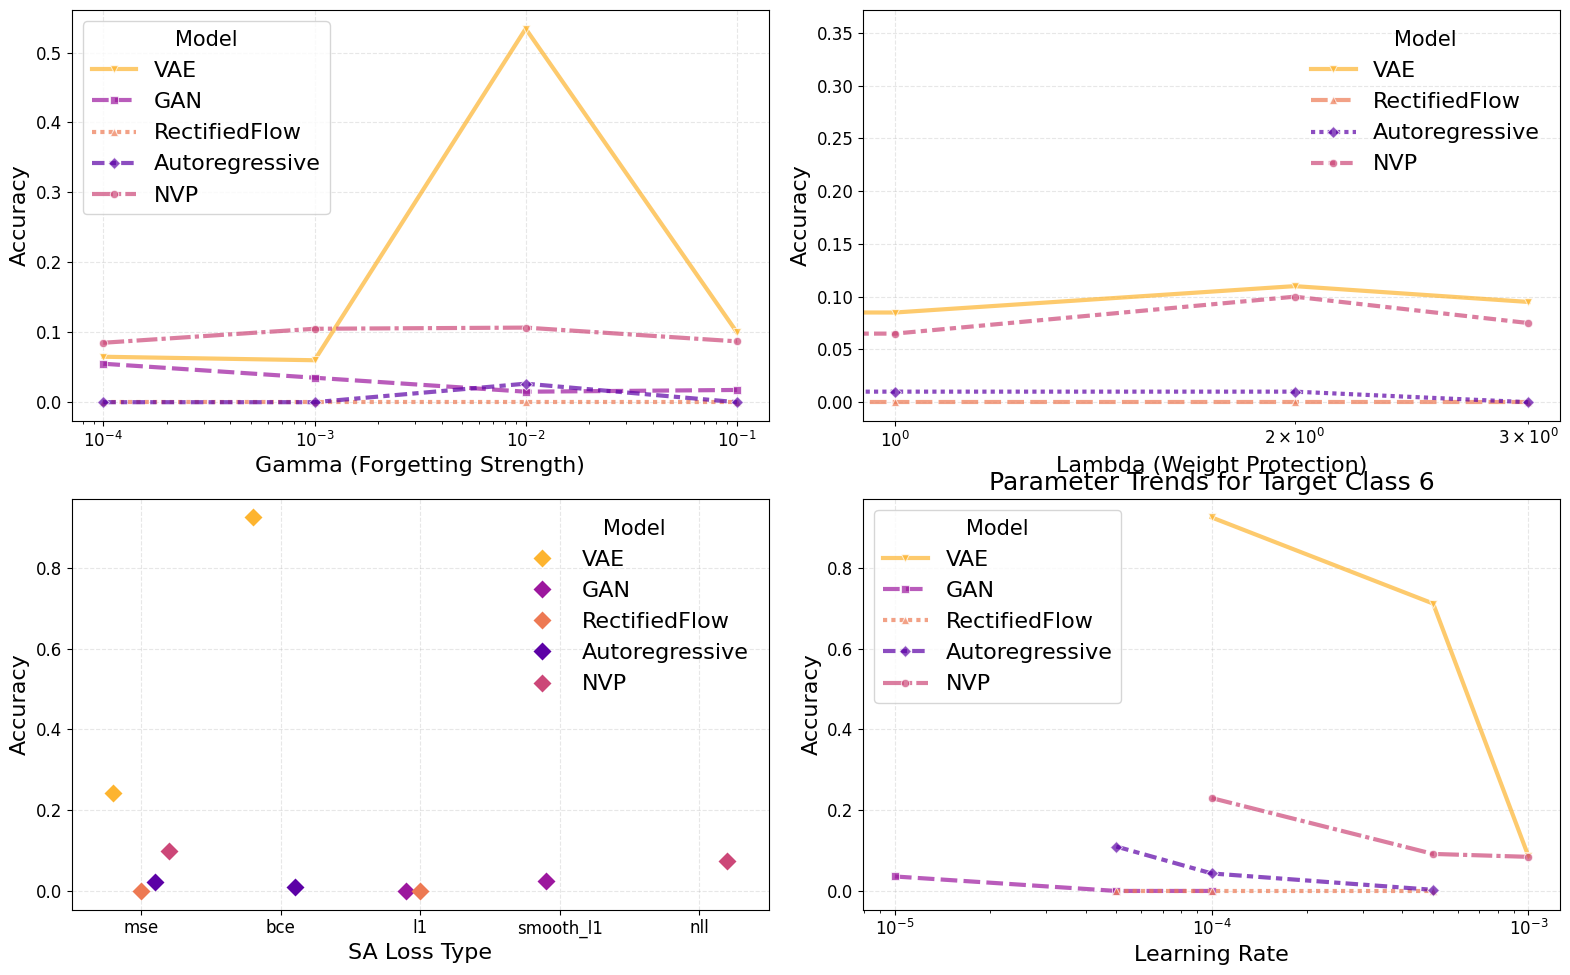
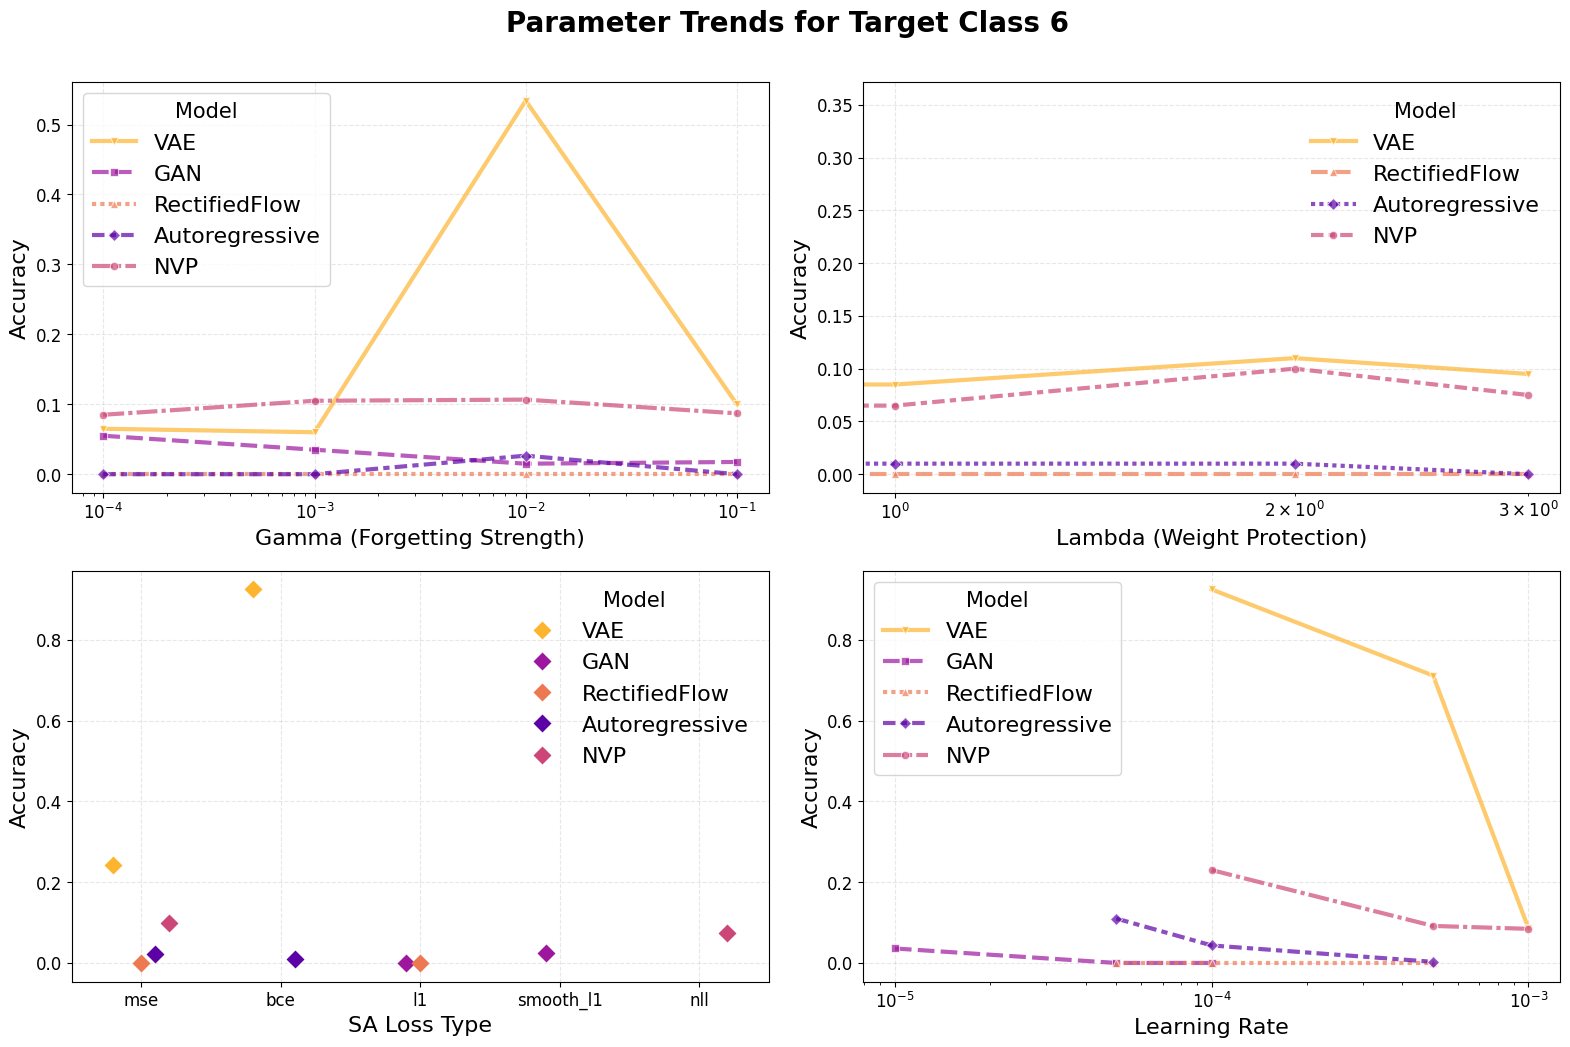
plot updates, GAN fix hopefully?

diff --git a/evaluation/paper_plots.py b/evaluation/paper_plots.py
@@ -86,7 +86,7 @@ def parameter_trend_plot(results_csv=RESULTS_CSV, target_class=TARGET_CLASS):
 
 
     plt.tight_layout()
-    plt.title(f"Parameter Trends for Target Class {target_class}")
+    plt.suptitle(f"Parameter Trends for Target Class {target_class}", fontweight='bold', y=1.05)
     plt.savefig(f'evaluation_data/plots/trends_{target_class}_grid.png', bbox_inches='tight')
 
 def combined_parameter_trend_plot():
@@ -209,6 +209,84 @@ def heatmap_plot(csv_path=FINAL_BEST_CSV, target_class=TARGET_CLASS):
     plt.tight_layout()
     plt.savefig(f'evaluation_data/plots/heatmap_{target_class}.png', dpi=300)
     
+def plot_optimization_traps():
+    edge_cases = [
+        {"model": "VAE", "target": 4},
+        {"model": "RectifiedFlow", "target": 8},
+        {"model": "RectifiedFlow", "target": 0} # as guideline
+    ]
+    
+    comparison_data = []
+
+    for case in edge_cases:
+        model = case["model"]
+        c = case["target"]
+        
+        raw_csv = f'evaluation_data/results_target_{c}.csv'
+        final_csv = f'evaluation_data/final_results_target_{c}.csv'
+        
+        if not (os.path.exists(raw_csv) and os.path.exists(final_csv)):
+            continue
+            
+        raw_df = pd.read_csv(raw_csv)
+        final_df = pd.read_csv(final_csv)
+        
+        target_col = f'digit_{c}_after'
+        
+        m_final = final_df[final_df['Model'] == model]
+        if m_final.empty: continue
+        
+        chosen_acc = m_final.iloc[0]['Final_Target_Acc']
+        chosen_drop = m_final.iloc[0]['Final_Retained_Drop']
+        
+        m_raw = raw_df[raw_df['Model'] == model]
+        if m_raw.empty: continue
+        
+        min_idx = m_raw[target_col].idxmin()
+        abs_best_acc = m_raw.loc[min_idx, target_col]
+        abs_best_drop = m_raw.loc[min_idx, 'Avg Retained Drop']
+        
+        label = f"{model}\n(Target {c})"
+        
+        comparison_data.append({
+            'Case': label,
+            'Selection': 'Scoring Metric Choice',
+            'Target Accuracy': chosen_acc,
+            'Retained Drop': chosen_drop
+        })
+        comparison_data.append({
+            'Case': label,
+            'Selection': 'Lowest Target Acc',
+            'Target Accuracy': abs_best_acc,
+            'Retained Drop': abs_best_drop
+        })
+
+    comp_df = pd.DataFrame(comparison_data)
+    if comp_df.empty: return
+
+    fig, axes = plt.subplots(1, 2, figsize=(14, 6))
+    
+    sns.barplot(data=comp_df, x='Case', y='Target Accuracy', hue='Selection', 
+                ax=axes[0], palette=["#7a3a9f", "#d67327"], errorbar=None)
+    axes[0].set_title('Target Accuracy')
+    axes[0].set_ylabel('Target Class Accuracy')
+    axes[0].axhline(0.05, ls='--', color='black', alpha=0.5)
+    axes[0].get_legend().remove()
+    
+    sns.barplot(data=comp_df, x='Case', y='Retained Drop', hue='Selection', 
+                ax=axes[1], palette=['#7a3a9f', '#d67327'], errorbar=None)
+    axes[1].set_title('Catastrophic Forgetting')
+    axes[1].set_ylabel('Average Accuracy Drop on Retained')
+    axes[1].invert_yaxis()
+    
+    plt.suptitle('Best Parameter Metric Evaluation', fontweight='bold', y=1.05)
+    plt.tight_layout()
+    
+    save_path = 'evaluation_data/plots/optimization_trap_cases.png'
+    os.makedirs('evaluation_data/plots', exist_ok=True)
+    plt.savefig(save_path, bbox_inches='tight', dpi=300)
+    plt.close()
+
 def get_best_runs_across_all_targets():
     all_best_runs = []
     
@@ -253,11 +331,11 @@ def stability_boxplot():
         data=master_df, 
         x='Model', 
         y='Target_Accuracy_After', 
-        color=".25", 
+        color=".5", 
         size=6, 
         alpha=0.7,
     )
-    datapoints_handle = mlines.Line2D([], [], color='.25', marker='o', linestyle='None',markersize=6, alpha=0.7, label='Class Accuracy')
+    datapoints_handle = mlines.Line2D([], [], color='.5', marker='o', linestyle='None',markersize=6, alpha=0.7, label='Class Accuracy')
     threshold_line = plt.axhline(0.05, ls='--', color='green', alpha=0.5, label='Forgetting Threshold')    
 
     plt.legend(handles=[datapoints_handle, threshold_line], 
@@ -265,9 +343,8 @@ def stability_boxplot():
             frameon=True,
             fontsize=12)
 
-    plt.title('Unlearning Stability Across All MNIST Classes\n(Lower Accuracy = Better Forgetting)', pad=15)
+    plt.title('Unlearning Stability Across All MNIST Classes', pad=15)
     plt.ylabel('Target Class Accuracy After SA')
-    plt.yscale("log")
     plt.grid(axis='y', linestyle='--', alpha=0.3)
     plt.tight_layout()
     plt.savefig('evaluation_data/plots/stability_boxplot_master.png', dpi=300)
@@ -376,9 +453,10 @@ def plot_all(target_classes=range(10)):
 
 if __name__ == "__main__":
     #plot_all(range(10))
-    #stability_boxplot()
+    stability_boxplot()
     for c in range(10):
         res = f'evaluation_data/results_target_{c}.csv'
         parameter_trend_plot(res, c)
-    # master_target_accuracy_heatmap()
+    master_target_accuracy_heatmap()
     combined_parameter_trend_plot()
+    plot_optimization_traps()

diff --git a/models/generative_adversarial_network/generative_adversarial_network.py b/models/generative_adversarial_network/generative_adversarial_network.py
@@ -65,11 +65,10 @@ class ConditionalGAN(nn.Module):
         self.adversarial_loss = torch.nn.BCEWithLogitsLoss()
 
     def generate(self, y):
-        """Generates images scaled to [-1, 1] for Oracle evaluation"""
+        """Generates images scaled to [0, 1]"""
         device = y.device
         z = torch.randn(y.size(0), self.latent_dim, device=device)
-        generated_imgs = self.generator(z, y)
-        return (generated_imgs * 2.0) - 1.0
+        return self.generator(z, y)
 
     def train_step(self, x, y):
         device = x.device

diff --git a/evaluation/test_parameters.py b/evaluation/test_parameters.py
@@ -47,7 +47,7 @@ FORGET_EPOCHS = {
 PARAMETERS = {
     "GAN": {
         "loss_type": ["l1", "smooth_l1"], 
-        "lr": [1e-5, 5e-5, 1e-4],
+        "lr": [1e-4, 5e-4, 1e-3], 
         "gamma": [0.0001,0.001,0.01, 0.1],
         "lmbda": ["-"] # placeholder unused.
     },
